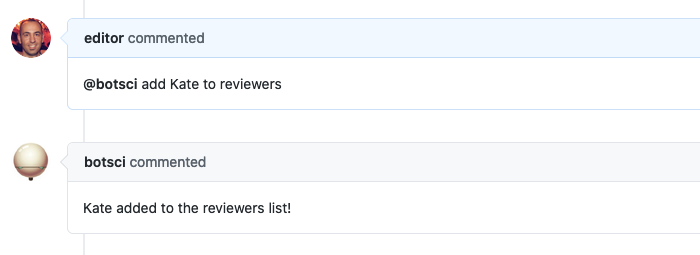
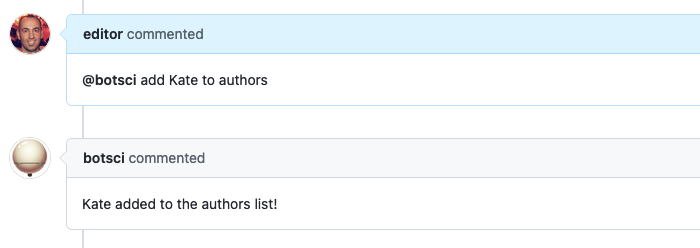
update docs

diff --git a/docs/responders/list_of_values.md b/docs/responders/list_of_values.md
@@ -13,21 +13,20 @@ Allows [labeling](../labeling).
 @botname remove <value> from <list-name>
 ```
 
-For example, if you configure this responder to add/remove values for the _reviewers_ list, it would respond to:
+For example, if you configure this responder to add/remove values for the _authors_ list, it would respond to:
 ```
-@botname add @username to reviewers
+@botname add @username to authors
 ```
 ## Requirements
-
 
 The body of the issue should have the target field placeholder marked with HTML comments.
 
 ```html
 <!--<listname>-list-->  <!--end-<listname>-list-->
 ```
-Following the previous example if the name of the field is _reviewers_:
+Following the previous example if the name of the field is _authors_:
 ```html
-<!--reviewers-list-->  <!--end-reviewers-list-->
+<!--authors-list-->  <!--end-authors-list-->
 ```
 
 ## Settings key
@@ -52,7 +51,7 @@ Following the previous example if the name of the field is _reviewers_:
 ...
   responders:
     list_of_values:
-      name: reviewers
+      name: authors
 ...
 ```
 
@@ -63,10 +62,10 @@ Following the previous example if the name of the field is _reviewers_:
     list_of_values:
       - versions:
           sample_value: "v1.0.2"
-      - reviewers
+      - authors
           only: editors
           sample_value: "@username"
-          add_as_assignee: true
+          add_as_collaborator: true
 ...
 ```
 
